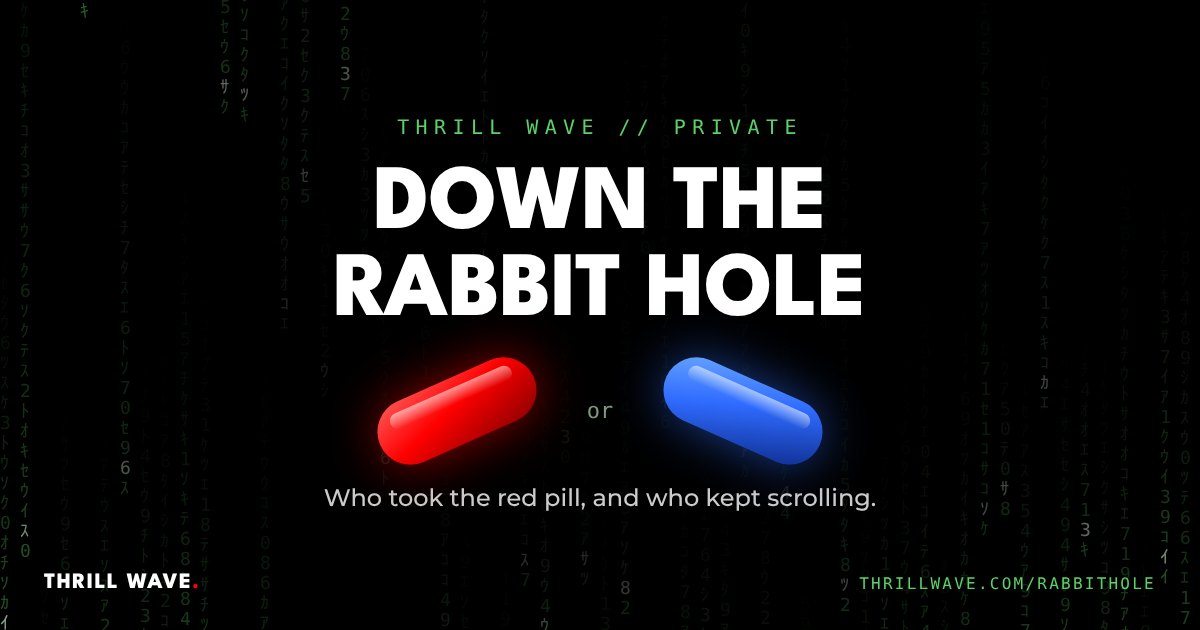
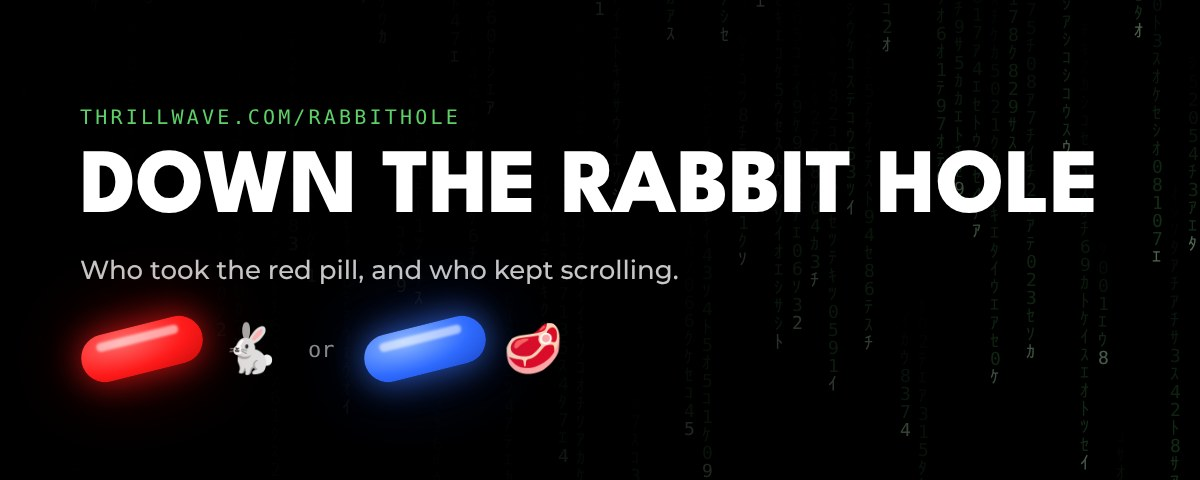
New link preview card: shorter, left aligned, rabbit and steak
Claude-Session: https://claude.ai/code/session_01WmWxMWdvkX4oDeaPMH3LWu

diff --git a/functions/rabbithole.js b/functions/rabbithole.js
@@ -54,8 +54,8 @@ const PAGE = /* html */ `<!doctype html>
 <meta property="og:url" content="https://thrillwave.com/rabbithole">
 <meta property="og:image" content="https://thrillwave.com/images/og/rabbithole.jpg">
 <meta property="og:image:width" content="1200">
-<meta property="og:image:height" content="630">
-<meta property="og:image:alt" content="A red pill and a blue pill over green Matrix code, with the words Down the rabbit hole">
+<meta property="og:image:height" content="480">
+<meta property="og:image:alt" content="Down the rabbit hole: a red pill with a rabbit and a blue pill with a steak, over green Matrix code">
 <meta name="twitter:card" content="summary_large_image">
 <meta name="twitter:image" content="https://thrillwave.com/images/og/rabbithole.jpg">
 <link rel="icon" href="/favicon.ico">
